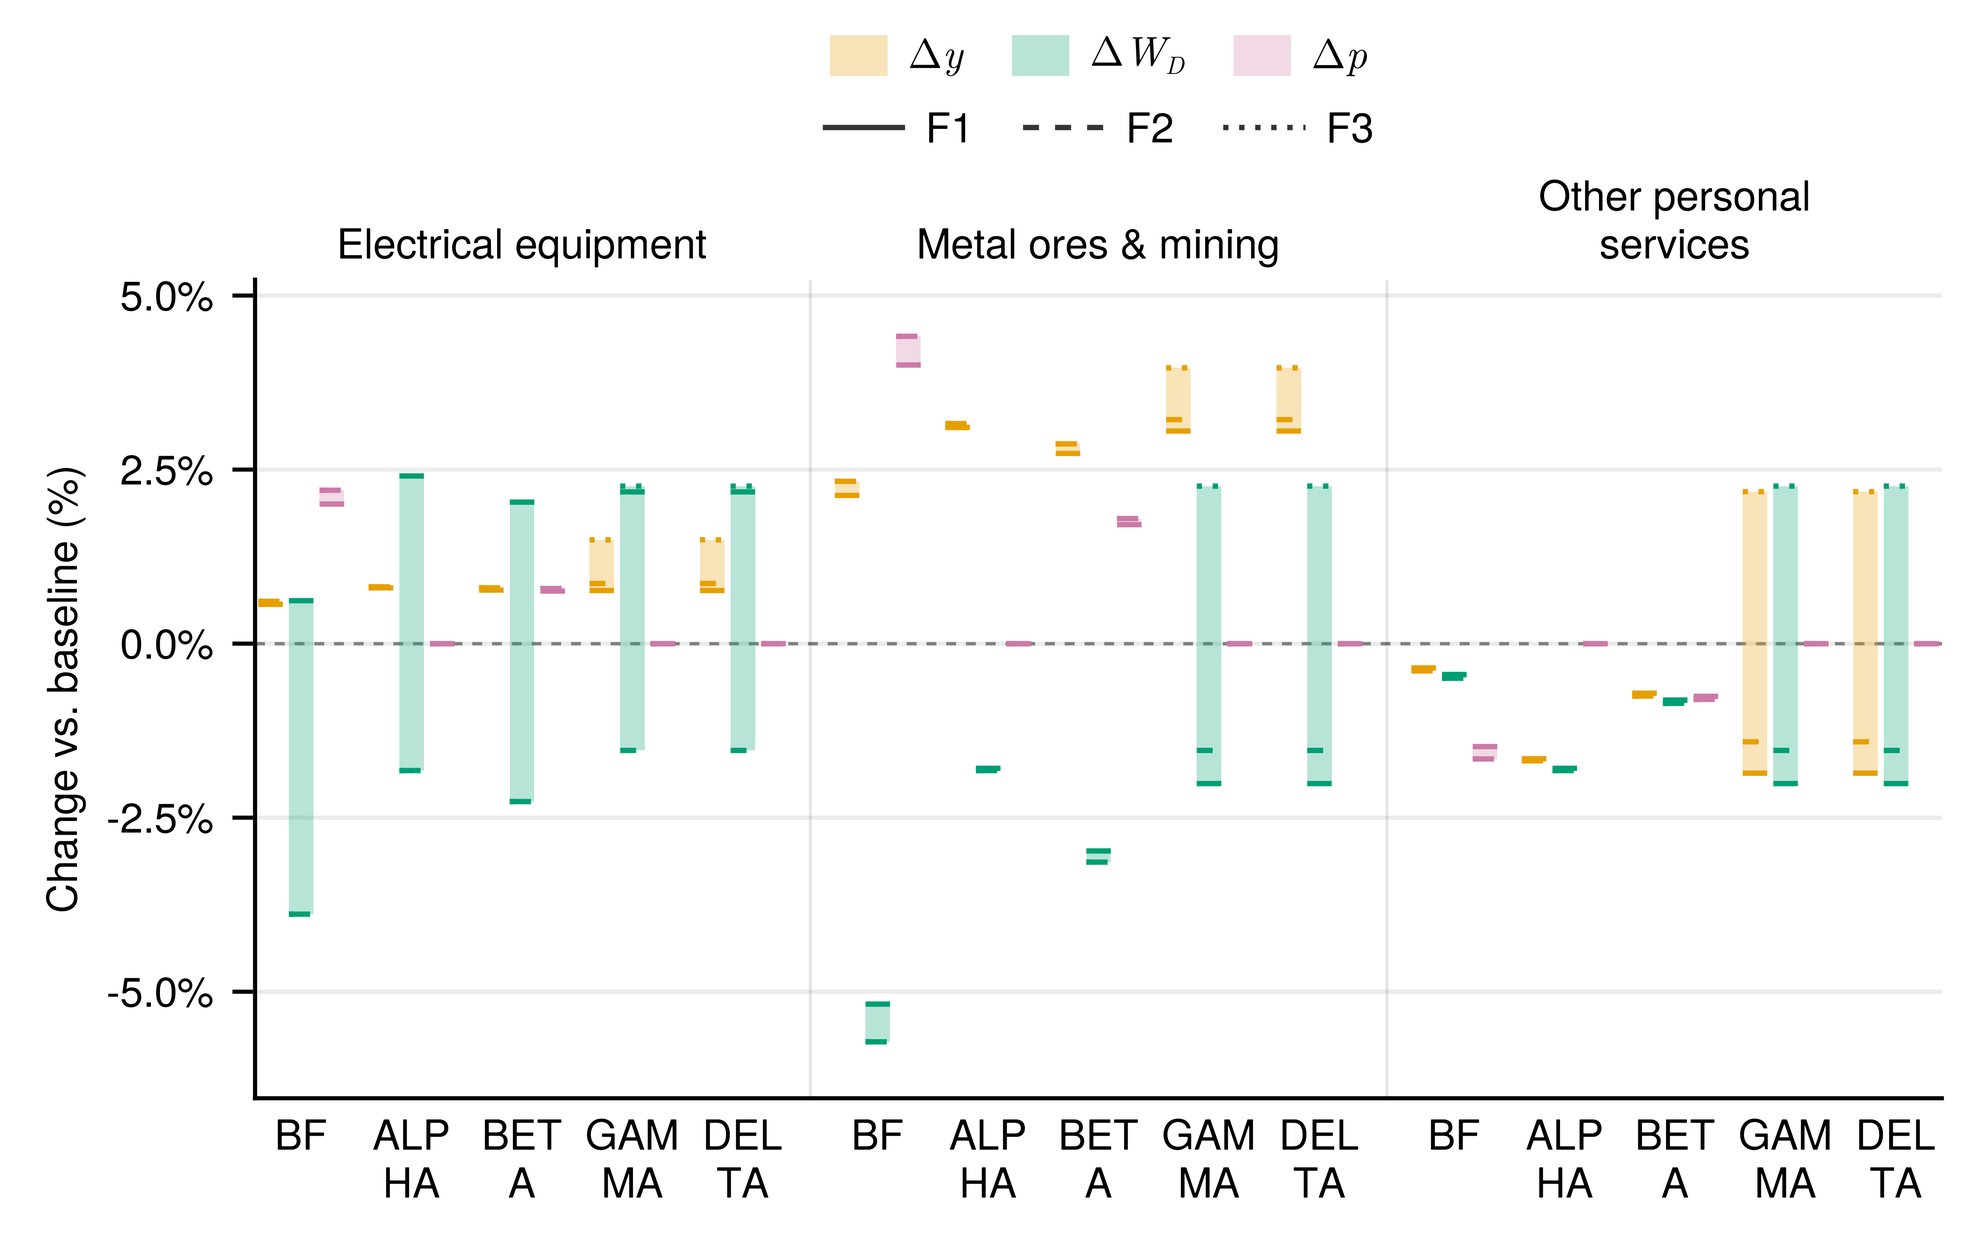
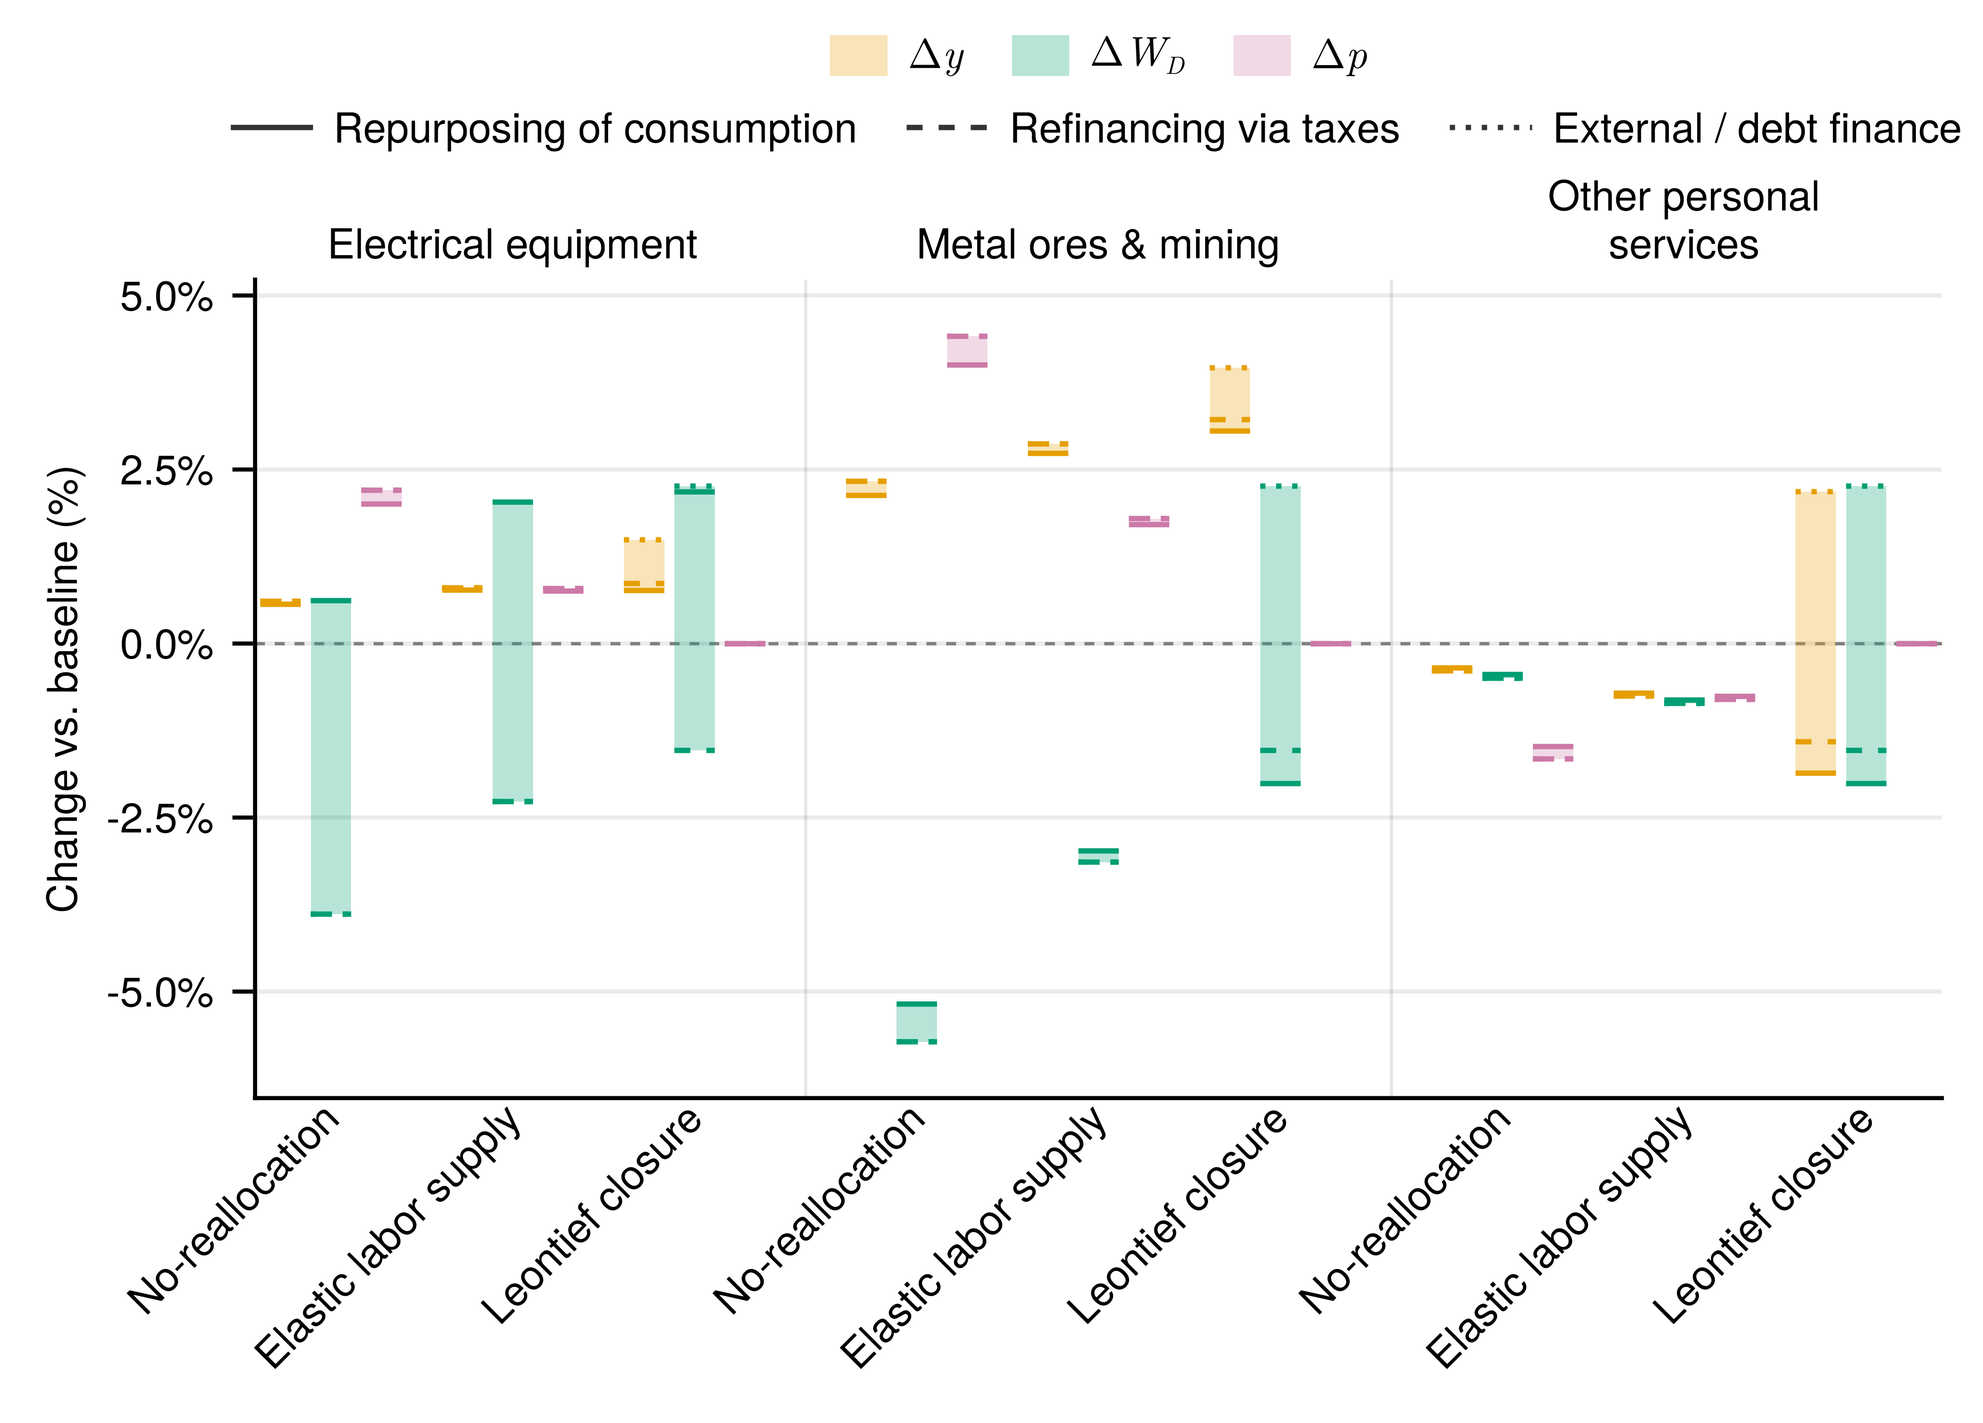
new plot types

diff --git a/revision/sections/(5)application.tex b/revision/sections/(5)application.tex
@@ -33,25 +33,32 @@ In sum, while a focus on GDP seems apt and adequate for many purposes in researc
 
 \subsection{Sectoral results}\label{subsec:sectoral}
 
-The aggregate figures in Table~\ref{tab:results-matrix} hide a strongly concentrated impulse. The program lands on only seven of the 71 sectors, and within these it is very unevenly distributed: it amounts to almost a quarter of baseline gross output in \emph{glass and glassware}, to about a tenth in \emph{specialized construction works} and in \emph{ceramic products, processed stone and clay}, to about five percent in \emph{rubber and plastics}, and to less than two percent in \emph{chemicals}, \emph{machinery} and \emph{electrical equipment}. Figure~\ref{fig:sectoral-comparison} compares three illustrative sectors across the five labor closures: a directly targeted sector (electrical equipment), an upstream supplier (metal ores and other mining), and a consumer service outside the program (other personal services). Within each labor closure, the bars span the three financing outcomes and the lines mark each financing cell. Figure~\ref{fig:sectoral-comparison-scatter} places all 71 sectors in the output--price plane for the nine distinct economies of the matrix. The detailed cell-by-cell panels, including all seven program sectors and the consumption-elasticity sensitivity, are in Appendix~\ref{app:sectoral-panels}.
+The aggregate figures in Table~\ref{tab:results-matrix} hide a strongly concentrated impulse. The program lands on only seven of the 71 sectors, and within these it is very unevenly distributed: it amounts to almost a quarter of baseline gross output in \emph{glass and glassware}, to about a tenth in \emph{specialized construction works} and in \emph{ceramic products, processed stone and clay}, to about five percent in \emph{rubber and plastics}, and to less than two percent in \emph{chemicals}, \emph{machinery} and \emph{electrical equipment}. Figure~\ref{fig:sectoral-comparison} compares three illustrative sectors across the no-reallocation, elastic labor supply and Leontief closures: a directly targeted sector (electrical equipment), an upstream supplier (metal ores and other mining), and a consumer service outside the program (other personal services). Within each labor closure, the bars span the three financing outcomes and the lines mark each financing cell. Figures~\ref{fig:sectoral-comparison-scatter} and \ref{fig:sectoral-comparison-scatter-f3} place all 71 sectors in the output--price plane for these three closures under the repurposing of consumption (F1) and external financing (F3), respectively. The detailed cell-by-cell panels, including all seven program sectors and the consumption-elasticity sensitivity, are in Appendix~\ref{app:sectoral-panels}.
 
 \begin{figure}[htbp]
 \centering
 \includegraphics[width=\textwidth]{images/closure_comparison.png}
-\caption{Sectoral changes in output, household consumption (the plotted $W_D$ series), and prices for a program sector, an upstream supplier and a consumer service. Each labor group spans F1--F3; line styles identify the financing outcomes. BF: no reallocation; ALPHA: standard CGE; BETA: sectoral elastic labor supply ($\eta_{s,i}=0.5$); GAMMA: fixed nominal wage; DELTA: Leontief. Changes are relative to the no-program baseline.}
+\caption{Sectoral changes in output, household consumption (the plotted $W_D$ series), and prices for a program sector, an upstream supplier and a consumer service, under no reallocation, elastic labor supply and the Leontief closure. Each labor group spans repurposing of consumption, tax financing and external/debt finance; line styles identify the financing outcomes. Elastic labor supply uses $\eta_{s,i}=0.5$. Changes are relative to the no-program baseline.}
 \label{fig:sectoral-comparison}
 \end{figure}
 
 \begin{figure}[htbp]
 \centering
-\includegraphics[width=\textwidth]{images/closure_scatter.png}
-\caption{Output and price changes across all 71 sectors in the nine distinct economies. F2 represents the coincident F2/F3 outcomes under BF, ALPHA and BETA; GAMMA represents the coincident fixed-nominal-wage and Leontief outcomes under each financing closure. BETA uses $\eta_{s,i}=0.5$. Colors identify labor--financing pairs; darker points mark the seven program sectors. Point area is proportional to the pre-program Domar weight, with the same sector size in every economy.}
+\includegraphics[width=\textwidth]{images/closure_scatter_F1.png}
+\caption{Output and price changes across all 71 sectors under the repurposing of consumption (F1), comparing no reallocation, elastic labor supply ($\eta_{s,i}=0.5$) and the Leontief closure. Colors identify the labor closures; darker points mark the seven program sectors. Point area is proportional to the pre-program Domar weight, with the same sector size under every closure.}
 \label{fig:sectoral-comparison-scatter}
 \end{figure}
 
-A first observation is that the \emph{ranking} of the program sectors is the same in every cell: glass expands most, followed by ceramics and specialized construction, while machinery and electrical equipment barely move. What the closure decides is how much of the impulse is passed through to quantities and how much is absorbed by prices. Where labor is free to move at a given wage --- the standard CGE and the two fixed-wage columns --- prices stay at the baseline and the output response comes close to the impulse itself: glass expands by about 21\% on an impulse of about 23\%, and ceramics expands by more than its own impulse (about $+10.5\%$), because it also supplies the expanding construction sector with intermediates. Where the wage is sectoral, a part of the impulse is turned into prices instead. In the no-reallocation column the glass sector expands by only $+11.7\%$ (F1) to $+14.3\%$ (F2/F3), while its price rises by 22\% to 28\% and its wage by more than half; elastic labor supply lies in between, with glass output up by 17\% to 18\% and its price by about 10\%. The cross-closure scatter in Figure~\ref{fig:sectoral-comparison-scatter} shows that this is a systematic pattern rather than a feature of a single sector: with sectoral wages, quantities and prices move together along upward-sloping sectoral supply curves, and the program sectors sit in the upper right corner, far away from the cloud formed by the other 64 sectors. Outside the program sectors, price changes remain small (within $\pm 1.7\%$ under elastic supply and $\pm 4.4\%$ under no-reallocation).
+\begin{figure}[htbp]
+\centering
+\includegraphics[width=\textwidth]{images/closure_scatter_F3.png}
+\caption{Output and price changes across all 71 sectors under external financing (F3), comparing no reallocation, elastic labor supply ($\eta_{s,i}=0.5$) and the Leontief closure. Shading and point areas follow Figure~\ref{fig:sectoral-comparison-scatter}.}
+\label{fig:sectoral-comparison-scatter-f3}
+\end{figure}
 
-The second observation concerns the sectors that are \emph{not} targeted by the program. In eight of the nine economies the large majority of them contracts: between 51 and 56 of the 64 non-program sectors lose output, with a median change between $-0.3\%$ and $-0.6\%$. The losers are predominantly consumer-facing services --- \emph{travel agencies}, \emph{accommodation and food services} and \emph{other personal services} --- whose demand is squeezed by the reallocation of spending toward the program goods (F1) or by the taxes that finance it (F2). The few winners are upstream suppliers of the program sectors, most notably \emph{metal ores and other mining} ($+2.1\%$ to $+3.2\%$), \emph{wood products} and \emph{metal products}. In the no-reallocation column, \emph{building construction} and \emph{civil engineering} are among the strongest losers (about $-1\%$): with immobile labor they cannot share in the boom of their neighbour, specialized construction, but face its higher input prices. The exception is the externally financed fixed-wage economy (GAMMA--F3 in Figure~\ref{fig:sectoral-comparison-scatter}; detailed panel in Figure~\ref{fig:sectoral-fixed-f3}): here all 64 non-program sectors expand, with a median of $+1.4\%$, because the program adds income instead of displacing other spending and employment is not capped. This is the sectoral face of the multiplier observed in Table~\ref{tab:results-matrix}, and it is the only cell in which the program is not, sector by sector, a reallocation from the rest of the economy to the seven program sectors.
+A first observation is that the \emph{ranking} of the program sectors is the same in every cell: glass expands most, followed by ceramics and specialized construction, while machinery and electrical equipment barely move. What the closure decides is how much of the impulse is passed through to quantities and how much is absorbed by prices. Where labor is free to move at a given wage --- the standard CGE and the two fixed-wage columns --- prices stay at the baseline and the output response comes close to the impulse itself: glass expands by about 21\% on an impulse of about 23\%, and ceramics expands by more than its own impulse (about $+10.5\%$), because it also supplies the expanding construction sector with intermediates. Where the wage is sectoral, a part of the impulse is turned into prices instead. In the no-reallocation column the glass sector expands by only $+11.7\%$ (F1) to $+14.3\%$ (F2/F3), while its price rises by 22\% to 28\% and its wage by more than half; elastic labor supply lies in between, with glass output up by 17\% to 18\% and its price by about 10\%. The cross-closure scatters in Figures~\ref{fig:sectoral-comparison-scatter} and \ref{fig:sectoral-comparison-scatter-f3} show that this is a systematic pattern rather than a feature of a single sector: with sectoral wages, quantities and prices move together along upward-sloping sectoral supply curves, and the program sectors sit in the upper right corner, far away from the cloud formed by the other 64 sectors. Outside the program sectors, price changes remain small (within $\pm 1.7\%$ under elastic supply and $\pm 4.4\%$ under no-reallocation).
+
+The second observation concerns the sectors that are \emph{not} targeted by the program. In eight of the nine economies the large majority of them contracts: between 51 and 56 of the 64 non-program sectors lose output, with a median change between $-0.3\%$ and $-0.6\%$. The losers are predominantly consumer-facing services --- \emph{travel agencies}, \emph{accommodation and food services} and \emph{other personal services} --- whose demand is squeezed by the reallocation of spending toward the program goods (F1) or by the taxes that finance it (F2). The few winners are upstream suppliers of the program sectors, most notably \emph{metal ores and other mining} ($+2.1\%$ to $+3.2\%$), \emph{wood products} and \emph{metal products}. In the no-reallocation column, \emph{building construction} and \emph{civil engineering} are among the strongest losers (about $-1\%$): with immobile labor they cannot share in the boom of their neighbour, specialized construction, but face its higher input prices. The exception is the externally financed Leontief economy (Figure~\ref{fig:sectoral-comparison-scatter-f3}; detailed panel in Figure~\ref{fig:sectoral-fixed-f3}): here all 64 non-program sectors expand, with a median of $+1.4\%$, because the program adds income instead of displacing other spending and employment is not capped. This is the sectoral face of the multiplier observed in Table~\ref{tab:results-matrix}, and it is the only cell in which the program is not, sector by sector, a reallocation from the rest of the economy to the seven program sectors.
 
 Third, the consumption bars show how strongly the sectoral pattern of consumption depends on the financing closure. Under F1 the program is booked as repurposed private spending, so household final demand for the program goods rises dramatically (by 30\% to 130\% in five of the seven sectors). Under F2 and F3 the program is a separate demand component, and consumption of the program goods \emph{falls}. Where prices stay at the baseline, this fall is uniform across sectors and simply mirrors the change in aggregate consumption ($-1.8\%$ in the standard CGE column, $-1.5\%$ and $+2.3\%$ in the fixed-wage columns under F2 and F3), because with unchanged relative prices households scale their basket proportionally. With sectoral wages, by contrast, households substitute away from the goods whose prices rise: consumption of glass falls by 21\% under no-reallocation and by 10\% under elastic supply. It is also only here that the consumption elasticity matters visibly; across all other series and cells the appendix panels' error bars for $\sigma\in\{0.6,0.99\}$ are barely visible.
 

diff --git a/experiments/README.md b/experiments/README.md
@@ -301,12 +301,16 @@ julia --project=. experiments/plot_matrix.jl --design matrix_5x3_v10 [--cells id
   `--comparison-sectors` selects
   sectors by 1-based index, dotted label, or curated short name (default:
   `Electrical equipment`, `Metal ores & mining`, `Other personal services`);
-  `--comparison-closures` selects labour ids or exact `run_id`s (default: all
-  labour closures present in the validated dataset in canonical order).
+  `--comparison-closures` selects labour ids or exact `run_id`s (default:
+  BF, BETA and DELTA, shown as No-reallocation, Elastic labor supply and
+  Leontief closure).
 - `--scatter-out FILE` writes the all-sector output/price scatter
   (`OpenCGE.plot_closure_scatter`, OpenCGE tag `v0.5.0`,
   `OpenCGE@ADR-0039`–`OpenCGE@ADR-0042`). `--scatter-pairs BF/F1,BETA/F2`
-  selects explicit labour/financing pairs (default: every validated cell).
+  selects explicit labour/financing pairs (default: the validated BF, BETA
+  and DELTA cells). `--scatter-split` writes one image per selected financing
+  closure, adding `_F1`, `_F2` or `_F3` before the extension. Legends use the
+  manuscript descriptions instead of registry ids.
   Each pair gets one color; programme sectors are dark and other sectors
   are light. Point area is proportional to the pre-programme Domar weight.
   Both comparison outputs are 17 cm wide, use 10-point text and 600-dpi PNGs,
@@ -317,14 +321,19 @@ The Section 5.2 comparisons are regenerated together with:
 ```bash
 julia --project=. experiments/plot_matrix.jl --design matrix_5x3_v11 --no-figures \
   --comparison-out revision/images/closure_comparison.png \
-  --scatter-out revision/images/closure_scatter.png \
-  --scatter-pairs BF/F1,BF/F2,ALPHA/F1,ALPHA/F2,BETA/F1,BETA/F2,GAMMA/F1,GAMMA/F2,GAMMA/F3
+  --comparison-closures BF,BETA,DELTA \
+  --scatter-out revision/images/closure_scatter.png --scatter-split \
+  --scatter-pairs BF/F1,BETA/F1,DELTA/F1,BF/F3,BETA/F3,DELTA/F3
 ```
 
-The range plot covers all fifteen headline cells; the scatter shows the nine
-distinct economies (F2 stands for coincident F2/F3 in BF/ALPHA/BETA, and
-GAMMA stands for coincident GAMMA/DELTA). Sources are
-`matrix_5x3-v11-<LABOUR>-<FINANCING>`, replacing BETA by
+The range plot covers BF, BETA and DELTA under all three financing closures.
+The two scatter images, `closure_scatter_F1.png` and `closure_scatter_F3.png`,
+show those same labour closures separately under repurposing of consumption
+and external financing. Labels follow Table 4: No-reallocation, Elastic labor
+supply and Leontief closure. Range labels are angled to keep the descriptions
+legible at print width. GAMMA and DELTA coincide on this demand-only branch;
+the selected employment-adjustment corner is represented by DELTA throughout.
+Sources are `matrix_5x3-v11-<LABOUR>-<FINANCING>`, replacing BETA by
 `matrix_5x3-v11-BETA-<FINANCING>-etas05` throughout (ADR-0036).
 Appendix D preserves the existing detailed panels, their labels and their
 `matrix_5x3_v10` source mapping in ADR-0036. The new main-text comparisons

diff --git a/docs/log/2026-10.md b/docs/log/2026-10.md
@@ -1057,3 +1057,37 @@ builds the 68-page revision in a temporary output directory without undefined
 references; `revision/main.pdf` is refreshed.
 
 **Next.** Review the terminology-only table diffs and restored provenance links.
+
+
+## 2026-10-23 — Restrict comparison plots and separate financing scatters
+
+**Intent.** Show only BF, BETA and DELTA in the main-text comparisons,
+replace registry ids in the plot labels with manuscript descriptions, and
+separate the scatter into F1 and F3 (the author confirmed F3 for the second
+plot). Interpret the request's GAMMA references through the explicitly
+selected DELTA corner; GAMMA and DELTA coincide on this demand-only branch.
+
+**Change.** The range plot uses No-reallocation, Elastic labor supply and
+Leontief closure under all three financing closures. The scatter uses the
+same three closures separately under repurposing of consumption (F1) and
+external financing (F3). The driver exposes `--scatter-split`, keeps each
+explicitly selected pair in its financing group, and uses the Table 4
+labels. Range descriptions are angled to remain legible. Section 5.2 and
+the reproduction command in `experiments/README.md` follow the split;
+the detailed appendix panels retain their existing coverage.
+
+**Sources.** Figures select `matrix_5x3-v11-{BF,DELTA}-{F1,F2,F3}` and
+`matrix_5x3-v11-BETA-{F1,F2,F3}-etas05`. The plotting driver revalidated
+all fifteen headline cells with zero price, quantity and metric deltas
+against the recorded artifacts (ADR-0025, ADR-0044). No new experiment,
+preregistration or kernel change is involved.
+
+
+**Checks.** The full paper suite passes, including the financing-group and
+manuscript-label checks (optional GLMakie test skipped). The three 600-dpi
+images render and were visually checked. The revision builds without
+undefined references or oversized floats; the F1 and F3 scatters occupy
+separate figures. The old combined scatter is removed. The status board
+reports zero warnings and the repository gate reports zero violations.
+
+**Next.** Review the three-closure figures in Section 5.2.

diff --git a/docs/status.md b/docs/status.md
@@ -1,7 +1,7 @@
 # Status Board
 
 <!-- volatile:start -->
-Generated 2026-10-23 by `scripts/status.jl` · branch `reorg` · HEAD `199f7ef` (dirty)
+Generated 2026-10-23 by `scripts/status.jl` · branch `reorg` · HEAD `9159535` (dirty)
 <!-- volatile:end -->
 
 > Single source of truth: `registry/` (closures.toml, scenarios.csv, freeze.toml).
